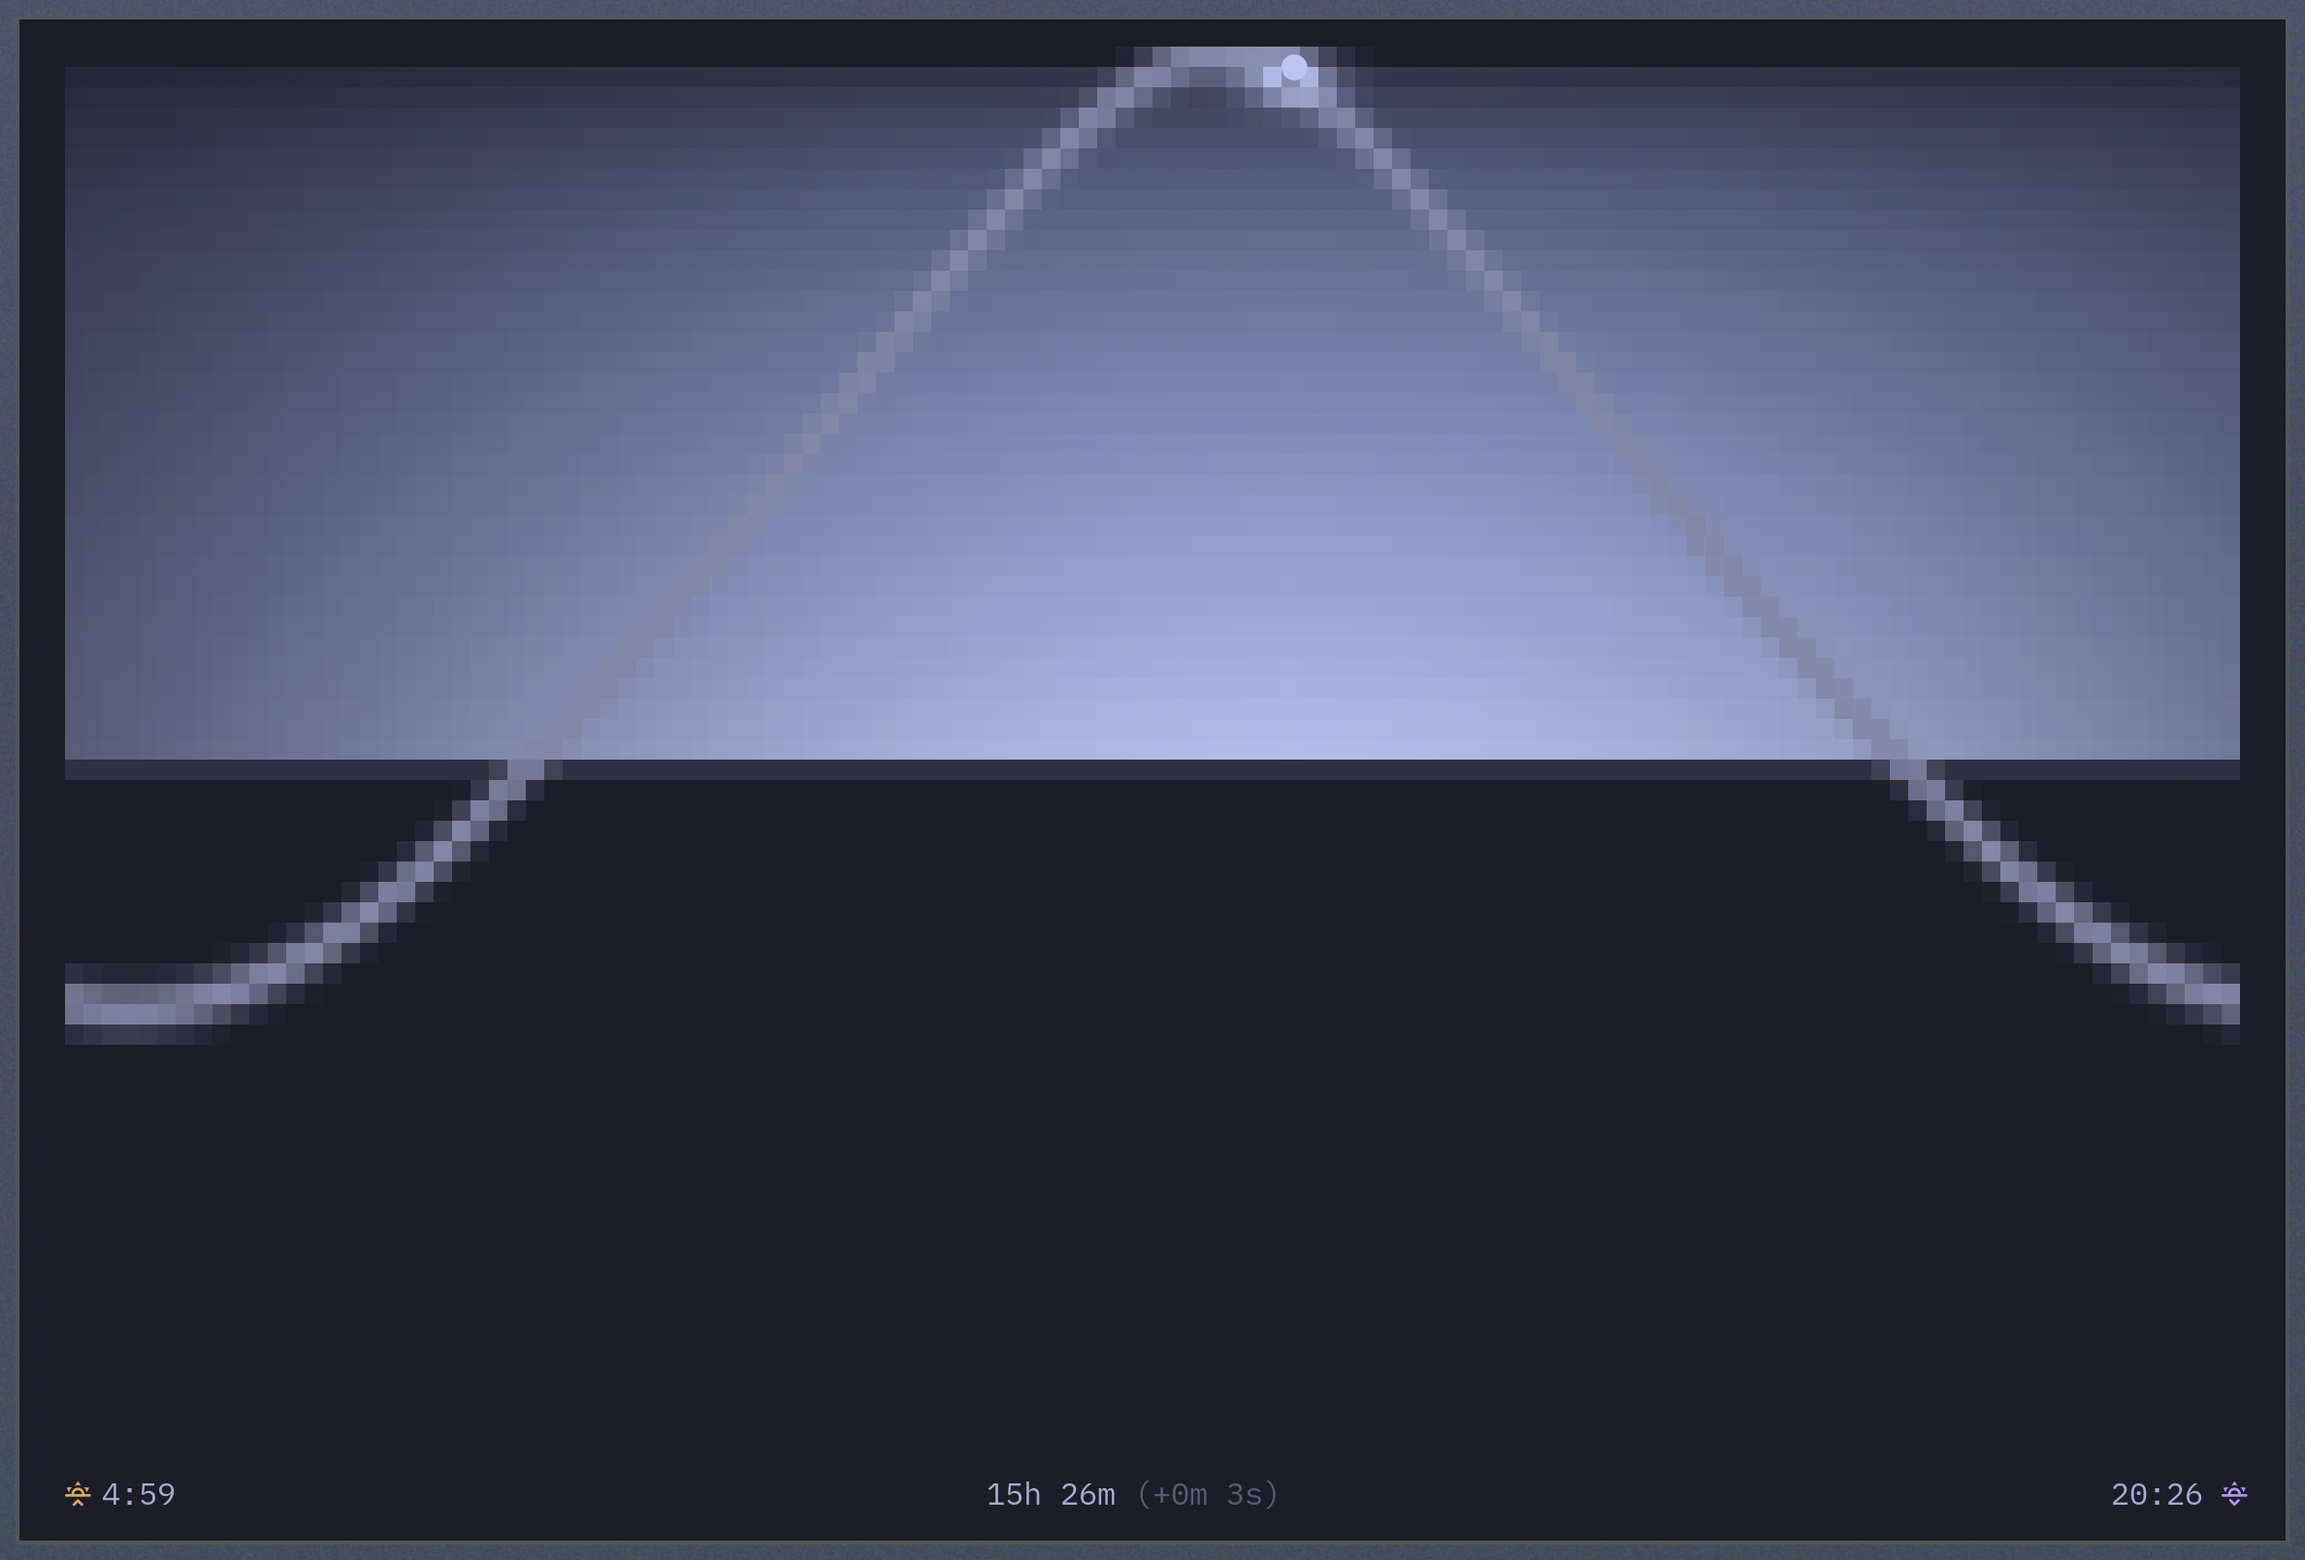
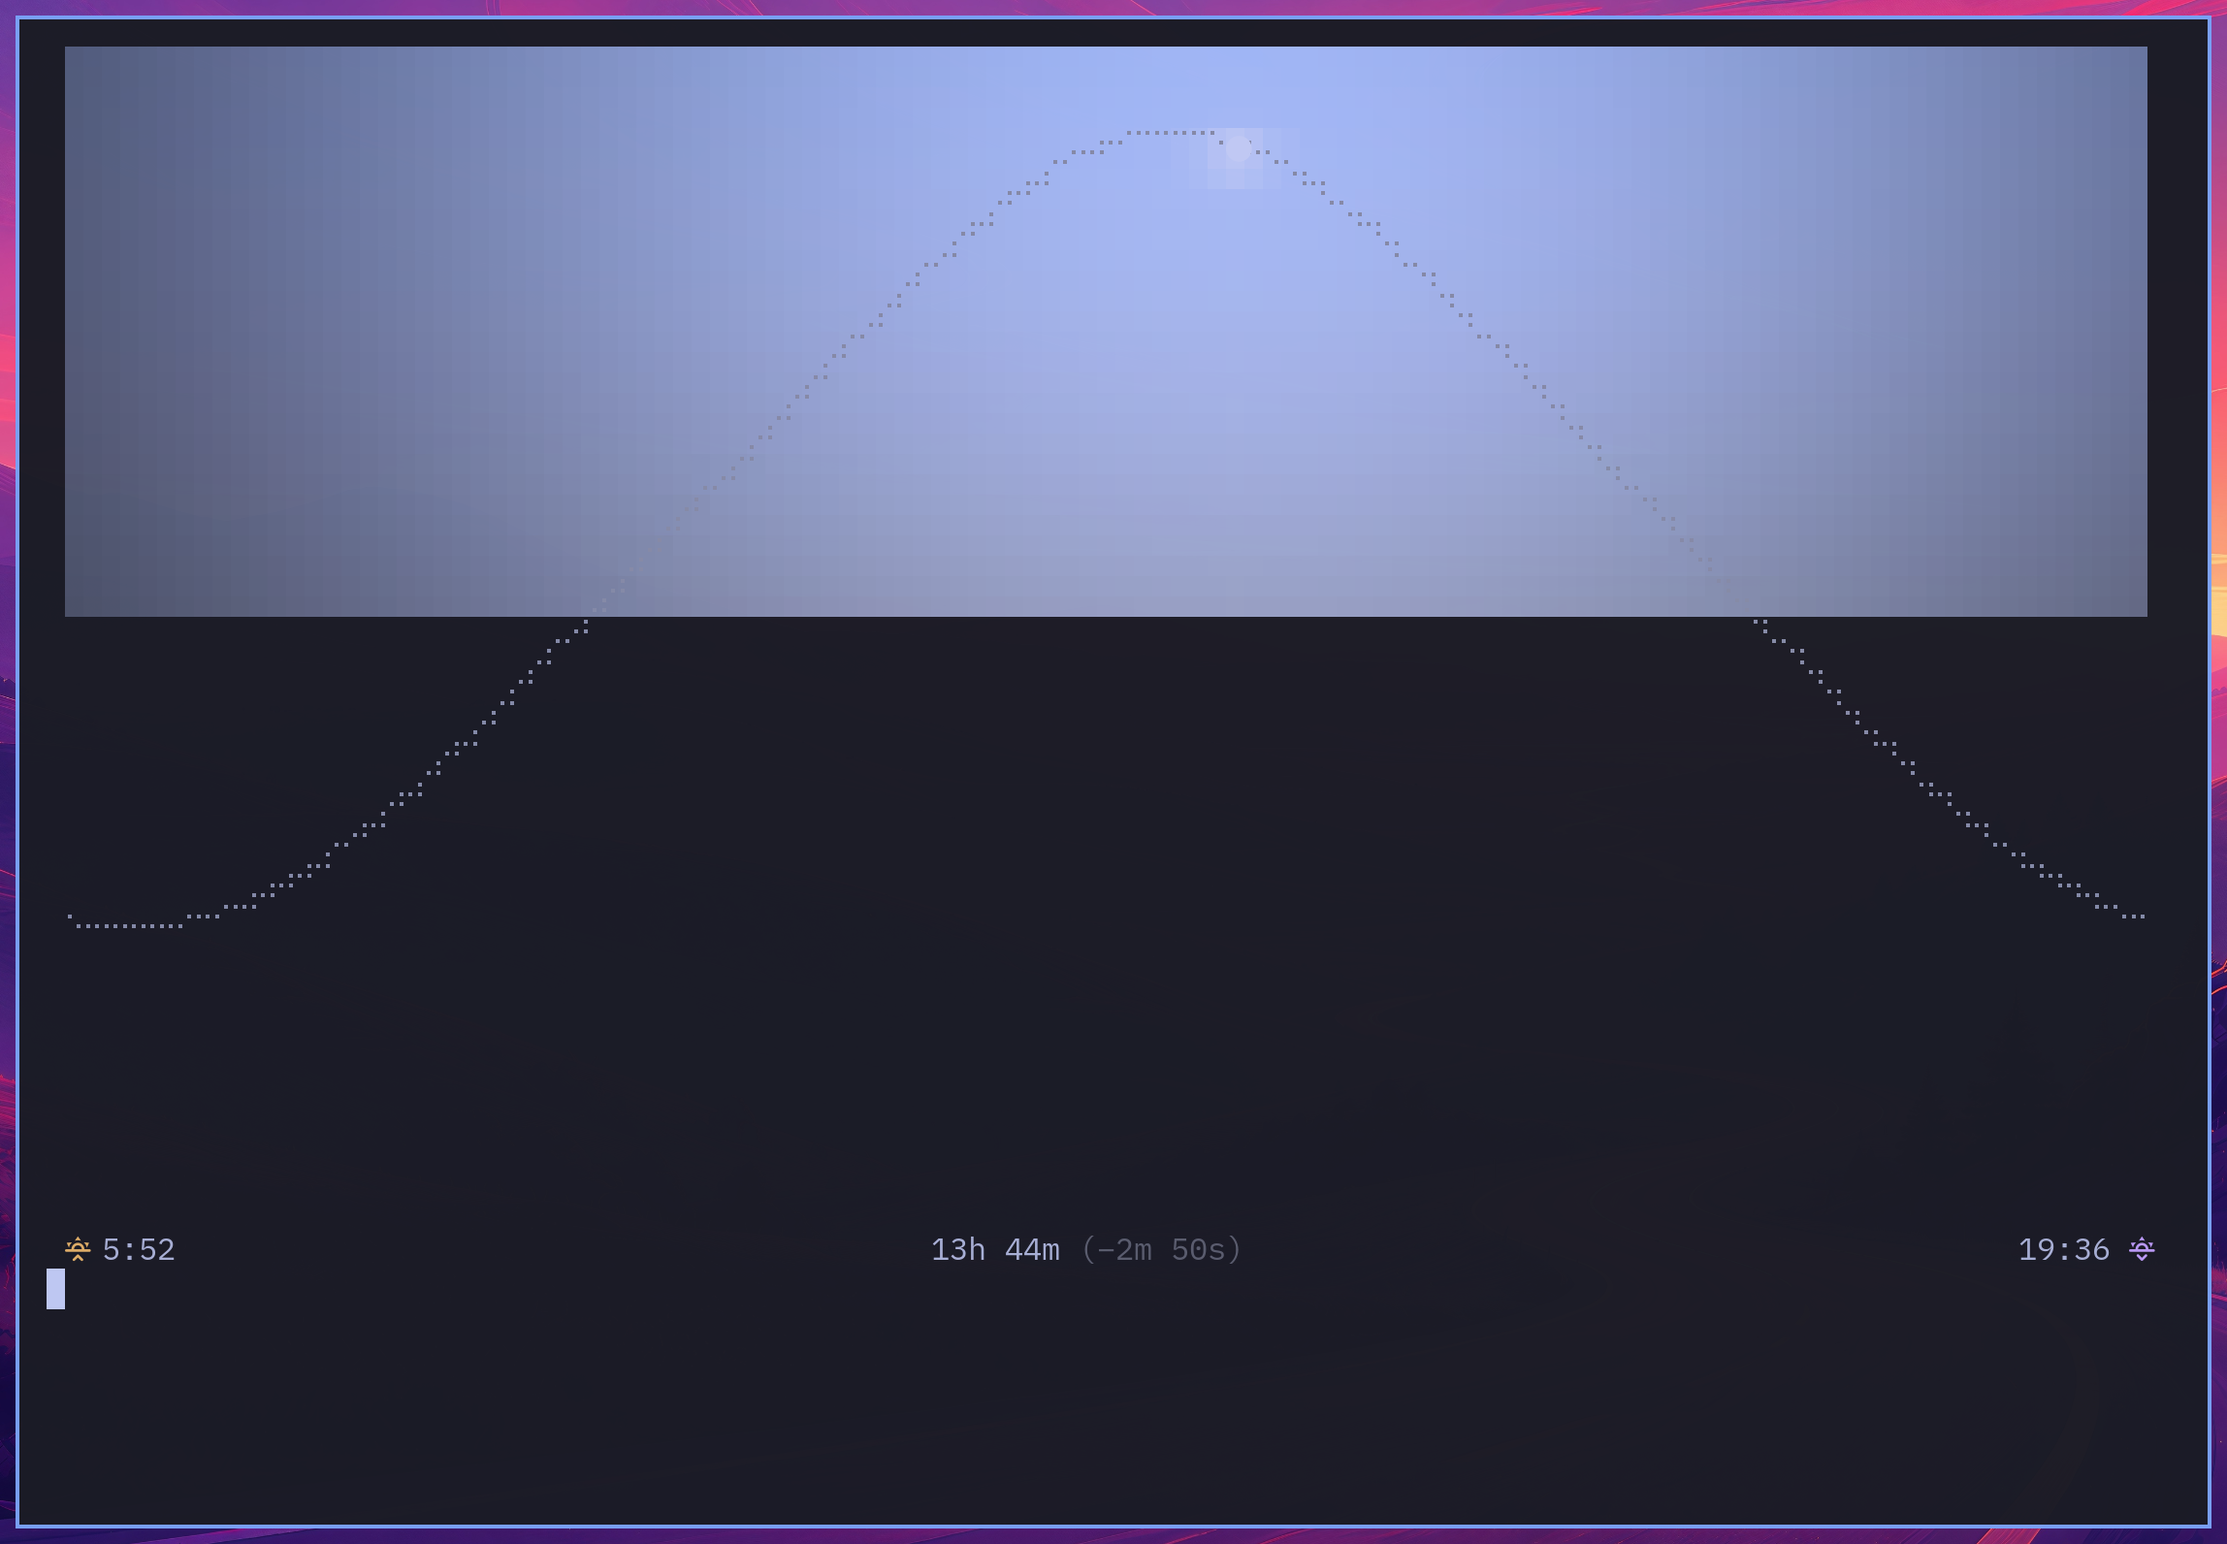
Screenshots: sunshine pair and hero reshot with the braille arc

diff --git a/CHANGELOG.md b/CHANGELOG.md
@@ -13,6 +13,8 @@ Notable changes, by release. Notes for the next release collect under
 
 - README: a Lineage section. A videotex terminal draws the weather,
   sometime in the 1980s.
+- Screenshots: the sunshine pair and the hero desktop, reshot with
+  the braille arc.
 
 - Quick try with nothing but curl: `curl -sL .../get.sh | sh` is in
   the README.
